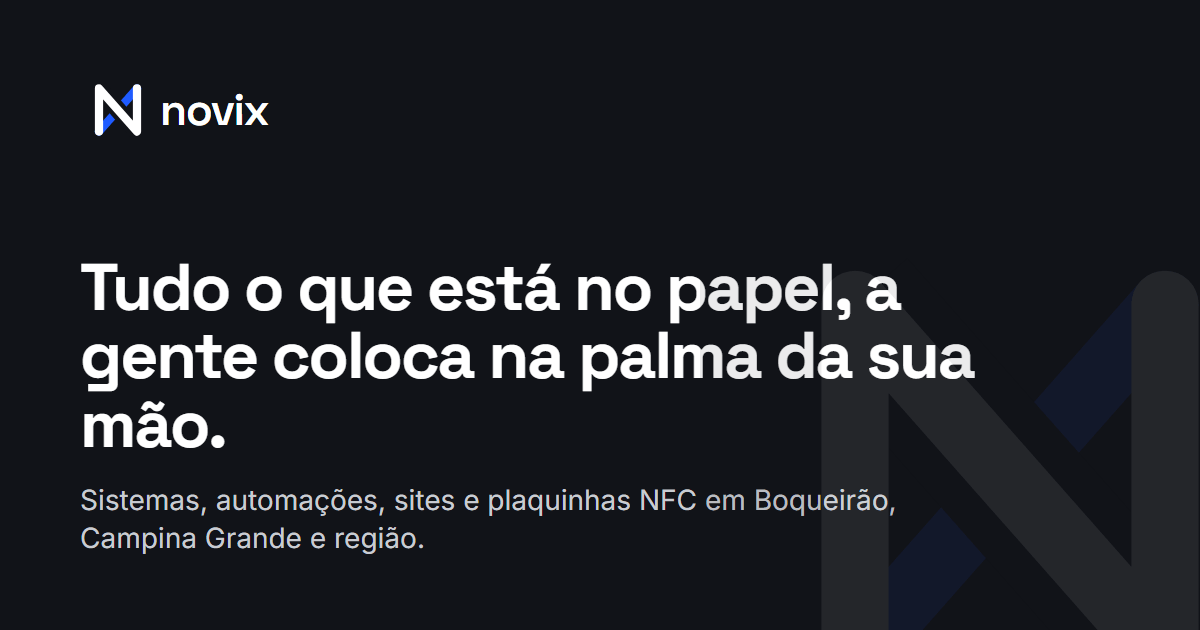
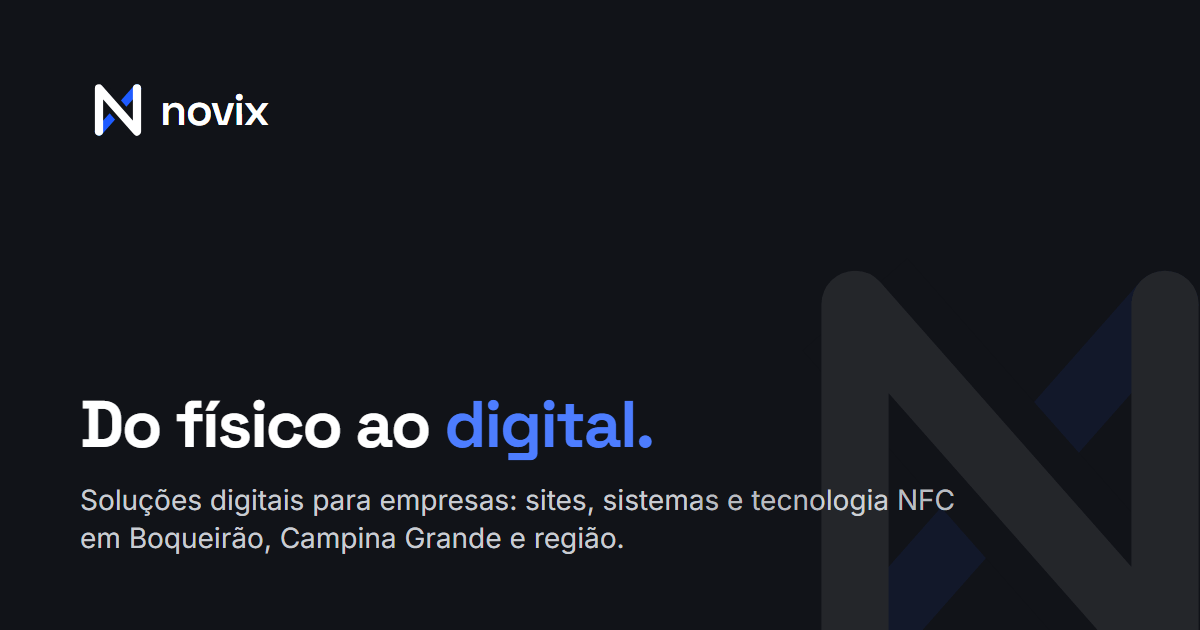
Alinha textos do site com a nova bio do Instagram
Topo, SEO e imagem de compartilhamento passam a usar
"Do físico ao digital." e "Soluções digitais para empresas".

Changed region(s): [[0.0617, 0.3921, 0.8325, 0.754], [0.0617, 0.754, 0.8017, 0.8143], [0.0617, 0.8444, 0.5242, 0.8746]]

diff --git a/scripts/assets/og.html b/scripts/assets/og.html
@@ -18,8 +18,8 @@
 <svg class="mark" viewBox="0 0 120 120"><rect width="120" height="120" fill="#111318"/><line x1="90" y1="26" x2="30" y2="94" stroke="#1F5BFF" stroke-width="13" stroke-linecap="round"/><line x1="30" y1="26" x2="90" y2="94" stroke="#111318" stroke-width="27"/><polyline points="30,94 30,26 90,94 90,26" fill="none" stroke="#FFFFFF" stroke-width="13" stroke-linecap="round" stroke-linejoin="round"/></svg>
 <div class="logo"><svg viewBox="0 0 120 120"><rect width="120" height="120" fill="#111318"/><line x1="90" y1="26" x2="30" y2="94" stroke="#1F5BFF" stroke-width="13" stroke-linecap="round"/><line x1="30" y1="26" x2="90" y2="94" stroke="#111318" stroke-width="27"/><polyline points="30,94 30,26 90,94 90,26" fill="none" stroke="#FFFFFF" stroke-width="13" stroke-linecap="round" stroke-linejoin="round"/></svg>novix</div>
 <div>
-  <h1>Tudo o que está no papel, a gente coloca na palma da sua mão.</h1>
-  <p style="margin-top:24px">Sistemas, automações, sites e plaquinhas NFC em Boqueirão, Campina Grande e região.</p>
+  <h1>Do físico ao <span style="color:#4D7DFF">digital.</span></h1>
+  <p style="margin-top:24px">Soluções digitais para empresas: sites, sistemas e tecnologia NFC em Boqueirão, Campina Grande e região.</p>
 </div>
 </body>
 </html>
